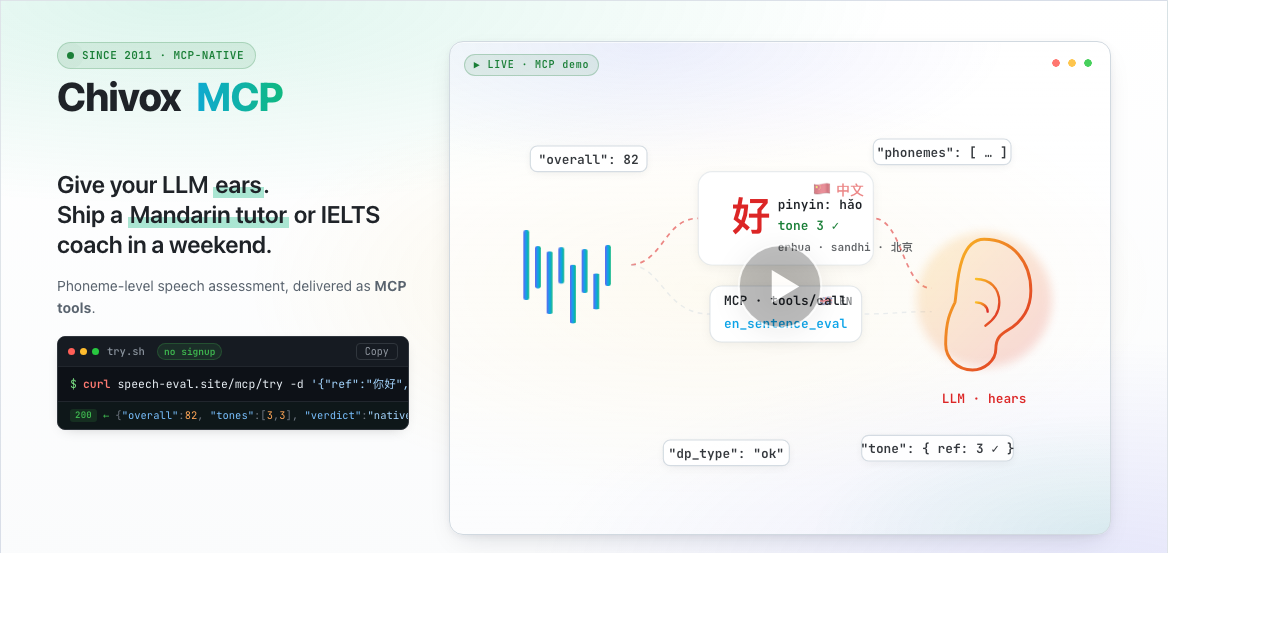
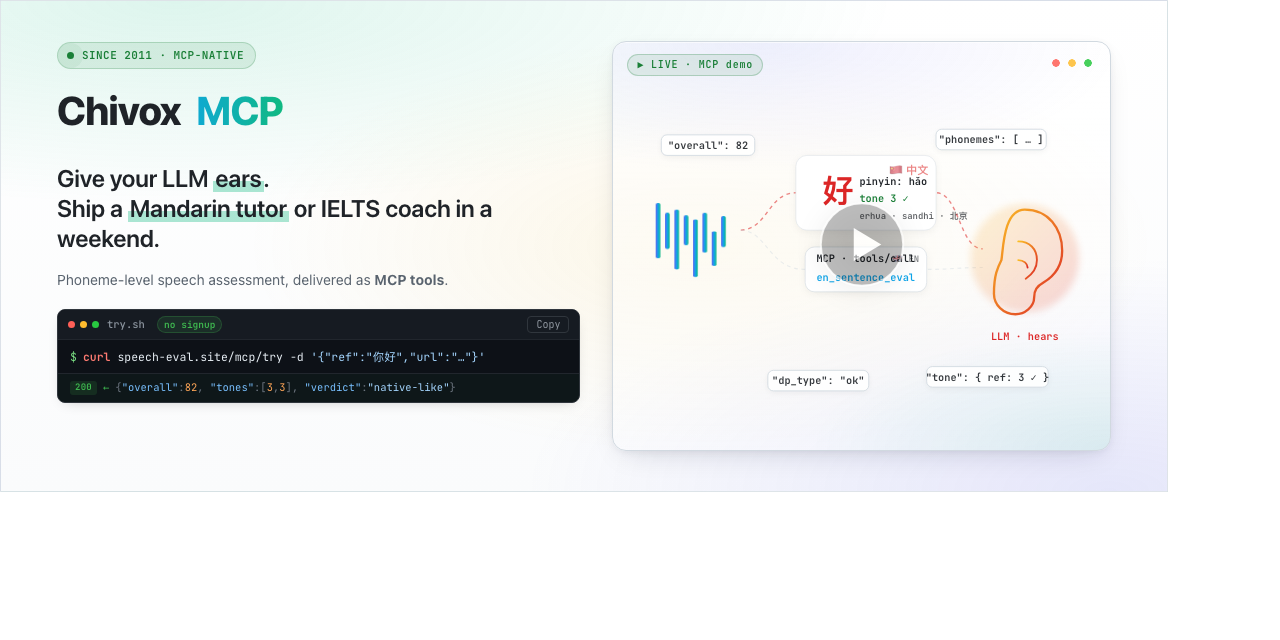
docs: widen hero left column so curl snippet fits fully
Made-with: Cursor

diff --git a/index.html b/index.html
@@ -2202,7 +2202,15 @@ agent = create_react_agent(ChatOpenAI(model=<span class="tok-s">"gpt-4o"</span>)
         .hero-banner{margin:0 !important;border-radius:0 !important;padding:40px 56px !important}
         .hero-cta{display:none !important}
         .hero-banner .hero-sub{margin-bottom:18px !important}
-        .hero-banner .hero-curl{margin-top:0 !important}
+        .hero-banner .hero-curl{margin-top:0 !important;width:100% !important;max-width:none !important}
+        /* in bare mode curl moves into left col; give left col more room so curl fits */
+        .hero-banner .hero-grid{grid-template-columns:1.05fr 1fr !important;gap:32px !important}
+        /* ensure eyebrow / wordmark stack vertically and in correct order */
+        .hero-banner .hero-eyebrow{display:inline-flex !important;margin-bottom:14px !important}
+        .hero-banner .hero-wordmark{display:block !important;margin:0 0 12px !important}
+        /* allow curl command to wrap onto a second line if needed */
+        .hero-banner .hero-curl .cmd{white-space:pre-wrap !important;word-break:break-all !important}
+        .hero-banner .hero-curl .resp{white-space:pre-wrap !important;word-break:break-all !important}
       `;
       document.head.appendChild(extra);
       const curl = document.querySelector('.hero-banner .hero-curl');
